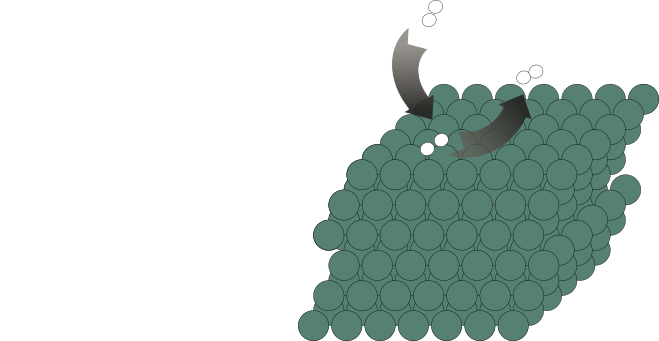
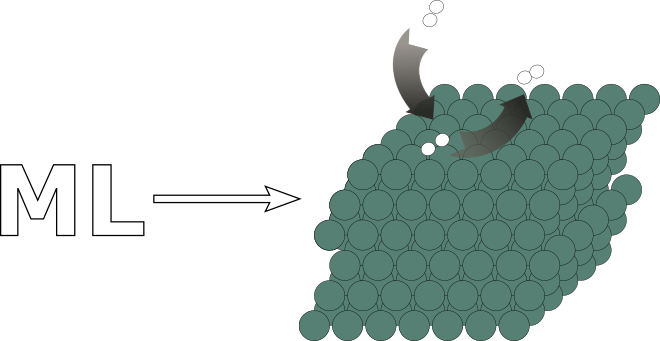
Update image

diff --git a/README.md b/README.md
@@ -1,3 +1,5 @@
+<center><img src="https://github.com/wgst/ml-gas-surface/blob/main/docs/figures/ml_to_gas_surf.png?raw=true" width="300"></center>
+
 # ML for gas-surface dynamics
 
 Instructions and scripts for growing machine learning interatomic potentials (MLIPs) databases through adaptive sampling for gas-surface dynamics.
